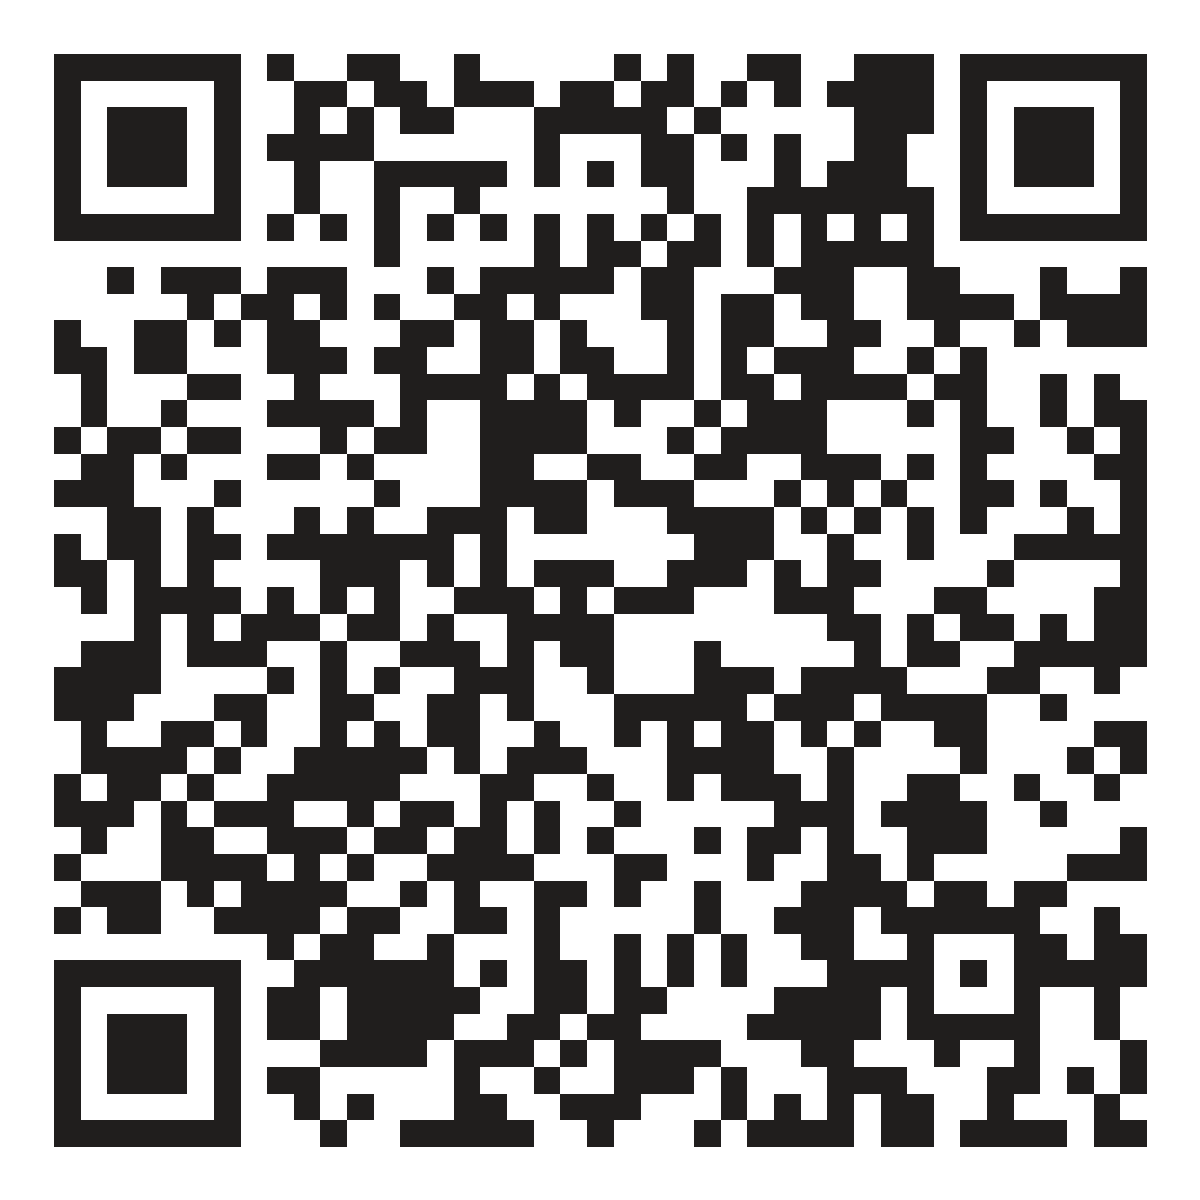
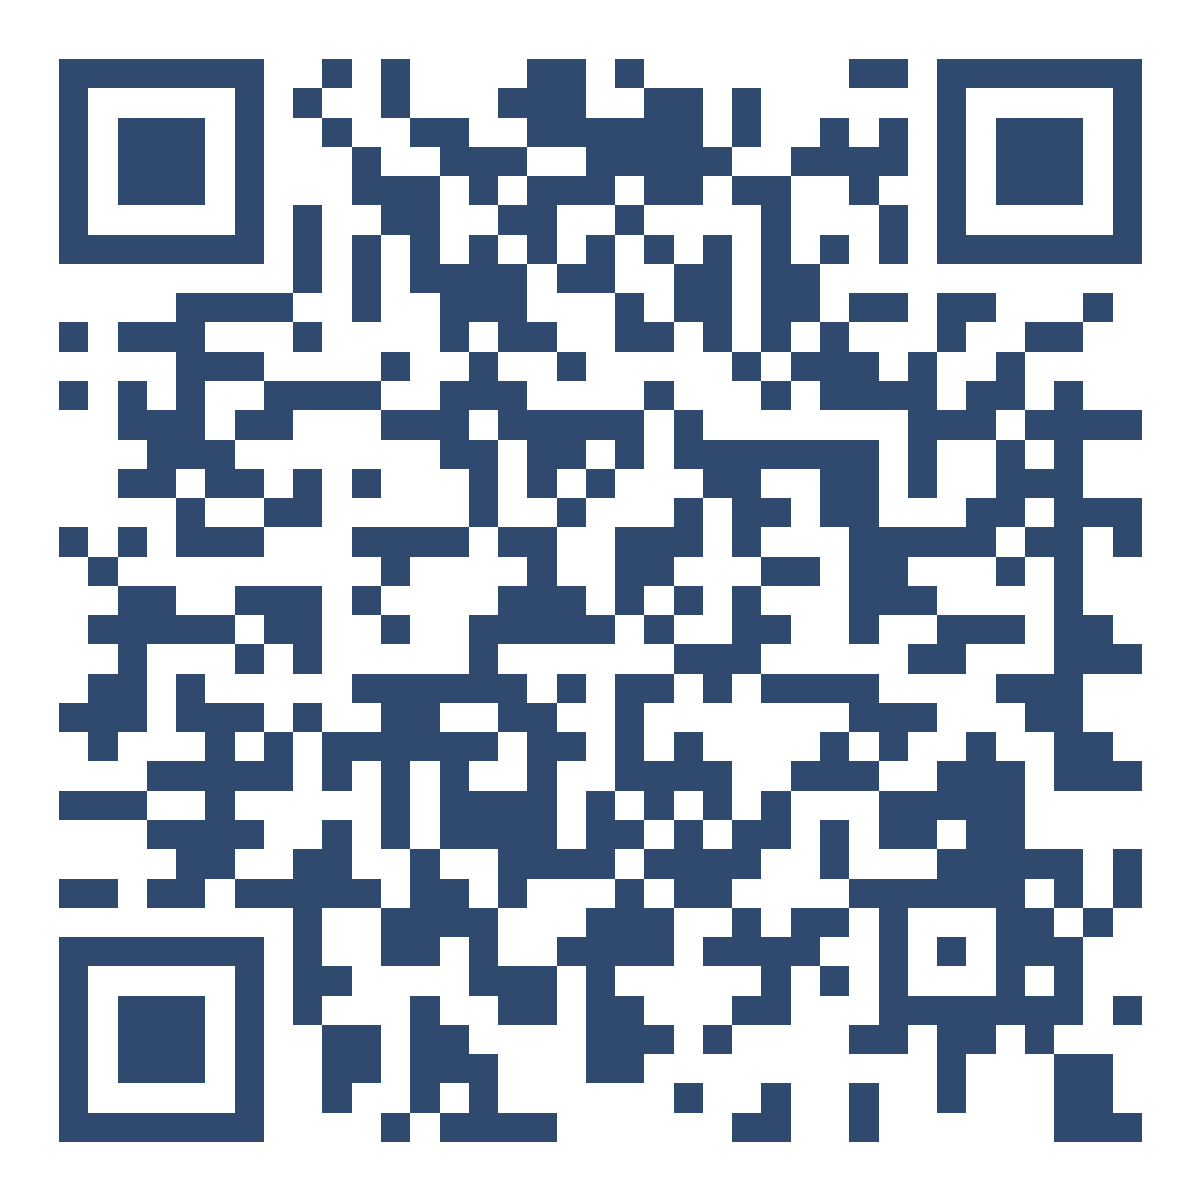
Photo signs: QR + printed URL now marielandrussell.com/photos

diff --git a/photos/sign.html b/photos/sign.html
@@ -42,7 +42,7 @@
     .code b { font-family: "Bodoni Moda", Didot, serif; font-weight: 600; font-size: 15pt; letter-spacing: 0.14em; margin-left: 5pt; }
     .rule { width: 0.7in; height: 1.5px; background: var(--foil); margin: 10pt auto; }
     .days { font-size: 7.5pt; letter-spacing: 0.16em; white-space: nowrap; }
-    .url { font-family: "Cormorant SC", serif; font-size: 6.5pt; letter-spacing: 0.04em; color: var(--copper); margin-top: 5pt; text-transform: lowercase; }
+    .url { font-family: "Cormorant SC", serif; font-size: 8.5pt; letter-spacing: 0.06em; color: var(--copper); margin-top: 6pt; text-transform: lowercase; }
 
     .marks { position: absolute; inset: 0; width: 100%; height: 100%; pointer-events: none; }
     .side { position: absolute; left: 0; right: 0; bottom: 0.12in; text-align: center; font: 7pt system-ui, sans-serif; color: #000; letter-spacing: 0.05em; }
@@ -83,11 +83,11 @@
         <stop offset="0.55" stop-color="#b8743f"/><stop offset="0.75" stop-color="#7a4527"/><stop offset="0.9" stop-color="#d79b6b"/><stop offset="1" stop-color="#b06c3a"/>
       </linearGradient></defs><text x="200" y="44" text-anchor="middle" fill="url(#sfoil)">Share your photos</text></svg>
         <p class="lede caps">Scan to add photos + videos<br>from the weekend</p>
-        <div class="qr"><img src="qr.svg" alt="QR code to the guest photo page"></div>
+        <div class="qr"><img src="qr.svg?v=2" alt="QR code to the guest photo page"></div>
         <div class="code caps">Code <b>1017</b></div>
         <div class="rule"></div>
         <div class="days caps">BBQ &nbsp;·&nbsp; Lakeside Fiesta &nbsp;·&nbsp; Wedding</div>
-        <div class="url foil">marielgpt.github.io/mr-and-mrs-smith-atx/photos</div>
+        <div class="url foil">marielandrussell.com/photos</div>
       </div>
     </div>
   </template>

diff --git a/README.md b/README.md
@@ -35,7 +35,7 @@ Static site, no build step:
 
 ## Guest photos
 
-`/photos/` is a public page for the whole weekend: guests upload photos + videos and browse the
+`/photos/` (https://marielandrussell.com/photos/) is a public page for the whole weekend: guests upload photos + videos and browse the
 live gallery, grouped by the day each was taken (EXIF / video metadata, falling back to upload
 time): Oct 15 BBQ, Oct 16 Lakeside Fiesta, Oct 17 wedding. Photos keep the original file plus a 2048px gallery copy and thumb; videos upload
 as-is at any size (resumable uploads for anything over 6 MB); admin view shows storage used. Files go to the public `guest-photos` Supabase bucket, listed via the
@@ -58,5 +58,5 @@ python3 -m http.server 8000
 
 ## Deploy (GitHub Pages)
 
-Pushed to `main`; served from GitHub Pages. To test a slipped clock without waiting for the day,
+Pushed to `main`; served from GitHub Pages at **https://marielandrussell.com** (custom domain; DNS at Squarespace — four GitHub A records + `www` CNAME → `marielgpt.github.io`). Old `marielgpt.github.io/mr-and-mrs-smith-atx/…` links redirect. To test a slipped clock without waiting for the day,
 set `simulatedTime` (e.g. `"16:20"`) in `config.js`.
